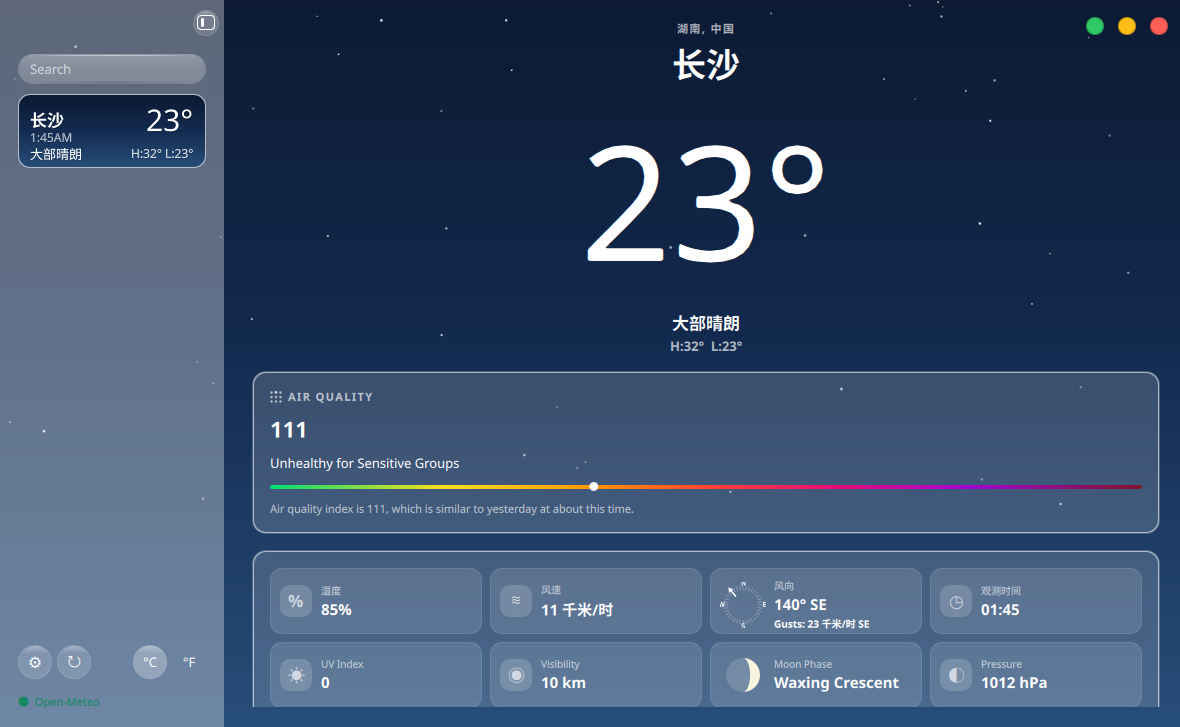
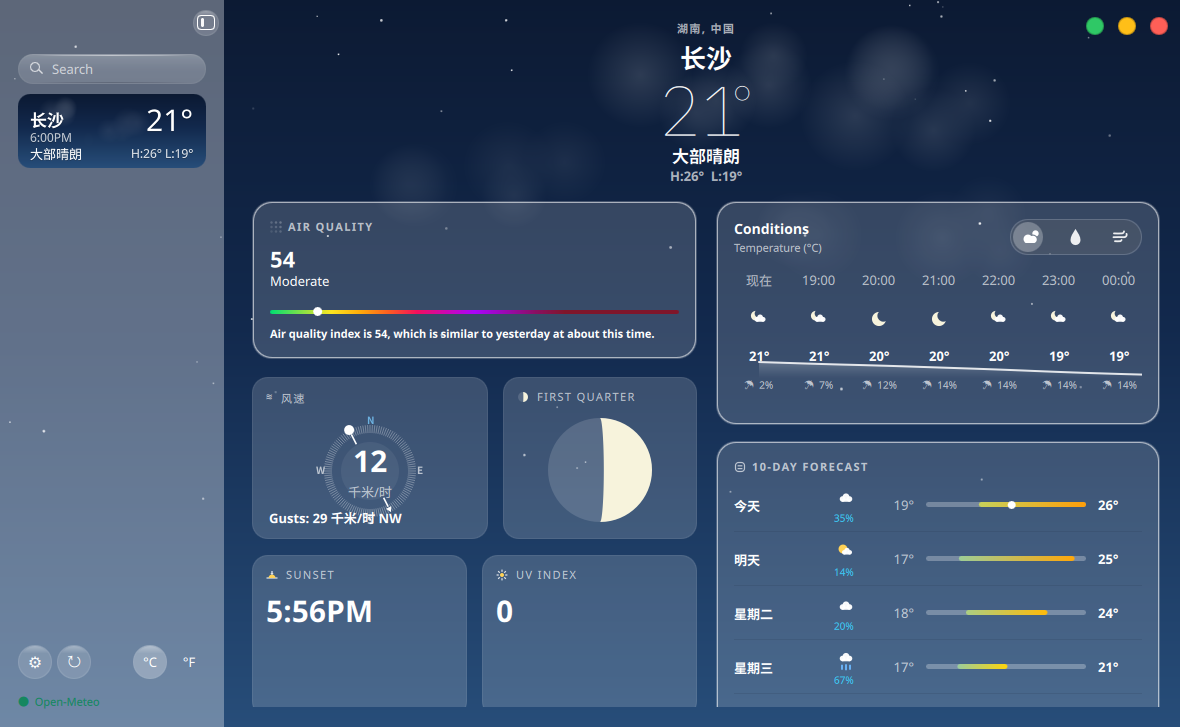
docs: round 43 进度与截图

diff --git a/docs/ui-weather/LEDGER.md b/docs/ui-weather/LEDGER.md
@@ -4,10 +4,14 @@
 参考实测色（814×498 主图采样）：天空 `#2961a7→#1469bc→#538ec9`（上→下，含云照片）；Conditions 卡 `#0057b2`；hero 文本 `#ffffff`；10天条渐变 青→黄→橙。
 
 ## 已改
+- **降水段（segment 1）列宽临界巡检收口（本轮=纯验证轮，净零代码改动，外推待确认"降水段 ☂ 30% 溢出"与风段轮残差 b 收口）**：TEMP 探针（`hourlySegmented` `Component.onCompleted: segment = 1`，取证后已删、git diff 净零）实拍取证。**结论：预测的 "☂ 30%"（~48px）溢出形态实际不存在**——降水段大值 Label（Main.qml:2926-2935）本就渲染纯百分数（"☂" 只出现在 segment 0 的底部 ☂ 行，segment 1 下 visible:false），LEDGER 旧预测按 "☂ 30%" 复合串估宽 48px 系口径错误。
+  **实测**（本轮二进制截图 tmp/shots/precipseg-probe-1792319277.png 过体检闸 ✅ 1180×727，dev env + KOS_SCREENSHOT_DELAY_MS=2500）：7 列 "2%/7%/12%/14%/14%/14%/14%" 全部居中于各自 50px 列（value 行 y345-375 与温度段同位），最宽墨 "12%/14%" **~20px**（50px 列内余量 ~30px，最坏 "100%" 加一位数字 ~+8px 仍充足）；列中心 757/817/878.5/938.5/998.5/1058.5/1118.5 = **60px 节奏精确**与温度段一致；☂ 行 segment 1 正确隐藏、无空带占位副作用（temperature/precip 两 Label 同槽互换、列高不变）；末列墨止 x1128 距卡右缘 x1158 余 30px 无裁切。目视 /tmp/z-precipseg.png 3x：七列齐整、无相撞无裁切。
+  **回归**（删探针重编译后默认段终态 tmp/shots/precipseg-final-1792319441.png 过体检闸 ✅ vs 改前 patrol windseg-final-1792319072，2px 步进 diff>24）：变化仅 12 稀疏采样散布 (44,6)-(1032,492)（星空闪烁/时钟已知噪声族）、整窗 MAE **0.003**——默认段零结构位移。qmllint 未跑（净零 diff 轮无义务）。测试 Qt 6/6 绿（env -u KOS_DATA_SOCKET）、go test ok。本轮无动效改动，无帧差义务。
+  **残差**：a) 三段切换视图（降水/风段）形态本系无参考外推，真实鼠标点击切换的观感仍待真机复核（既有外推条目不变）；b) "100%" 三位数场景本轮数据未出现（实测最大 "14%"），按墨宽外推余量充足。
 - **逐小时风段列溢出修复：数字/单位分两行（本轮，前端，零 Go/C++/shared/翻译改动，外推待确认"风段溢出"收口）**：外推待确认条目预测"风段 '16 千米/时'（~70px）会超出 50px 列宽与邻列相碰"从未实拍。TEMP 探针（`hourlySegmented` `Component.onCompleted: segment = 2`，取证后已删、git diff 净零 probe）实拍取证（tmp/shots/windseg-probe-1792318936.png 过体检闸 ✅ 1180×727）：风段各列 "12 千米/时" 连成一片、列间零间距、末列 "1 千米/" 被卡右缘裁切——预测证实。修复：`apps/weather/qml/Main.qml:2939-2969` 风速单行 Label（原 text `Math.round(windSpeed) + " " + root.speedUnit`）改为两行 ColumnLayout（数字行 DemiBold/skyText 居中 + 单位行 10px/skyTextMuted 居中、spacing 1，Accessible.name 移外层）；单位行占用 segment 2 下 ☂ 占位行空出的位置、净行高不变（不触发列重排）。ref 无风段形态（ref-main 仅温度段选中），两行结构系外推（Apple hourly wind 惯例数字大/单位小），记外推待确认。
   **实测**（本轮二进制截图 tmp/shots/windseg-fixed-1792319027.png 过体检闸 ✅ 1180×727，dev env + KOS_SCREENSHOT_DELAY_MS=2500）：7 列分明——单位墨宽 31-32px（列内余 ~18px）、邻列单位墨间隙 **29px**、列中心 758.5/818.5/878.5/…（**60px 精确**与温度段列中心一致）、数字行 "12" 墨中心 759.5 与单位行同列居中；目视 /tmp/z-windseg-fixed.png：数字/单位两行齐整、无相撞无裁切。
   **回归**（删探针重编译后默认段终态 tmp/shots/windseg-final-1792319072.png 过体检闸 ✅ vs 改前 patrol-1792318806，2px 步进 diff>24）：变化仅 33 稀疏采样散布 (44,4)-(1110,480)（星空闪烁/时钟已知噪声族）、整窗 MAE **0.004**——默认温度段零结构位移（改动只在 segment 2 分支）。qmllint 0 error（21 warning = 基线）。测试 Qt 6/6 绿（env -u KOS_DATA_SOCKET）、go test ok。本轮无动效改动，无帧差义务。
-  **残差（记入外推待确认）**：a) 两行结构系无参考外推；b) 降水段 "☂  30%"（~48px）50px 列内临界仍未实拍（同族，下轮巡检可顺带）；c) 单位行 10px 与 ☂ 行 10px 同族字号，中文 "千米/时" 10px 可读性系外推。
+  **残差（记入外推待确认）**：a) 两行结构系无参考外推；b) ~~降水段 "☂  30%"（~48px）50px 列内临界仍未实拍~~（**已收口**，见已改首条"降水段列宽临界巡检收口"）；c) 单位行 10px 与 ☂ 行 10px 同族字号，中文 "千米/时" 10px 可读性系外推。
 - **10 天卡头部→首行间距 −4px（本轮，前端，零 Go/C++/shared 改动，仍差 11 残差 b 收口）**：仍差 11 记载"头部→Today +4px"。本轮同口径复测（字体 1:1 依据：双方头部 caps 墨高均 8px，ipad 参考与截图同尺）：ref-ipad-small（1024×702）10 天卡（x264-546）头部墨底 y328 → Today 墨顶 y357 = **29px ink gap**；我方 patrol-1792318394（过体检闸 ✅）头部墨底 y471 → 今天墨顶 y505 = **33px**，+4px 残差确证。`apps/weather/qml/Main.qml:3012` dailyCard 头部 RowLayout `Layout.bottomMargin: 8→4`（注释 :3006 标明两侧实测依据）；spacing 6/fillWidth/visible/Canvas/Label/行 delegate/hover/渐变条零改动。
   **实测**（本轮二进制截图 tmp/shots/hdrgap-1792318597.png 过体检闸 ✅ 1180×727，dev env + KOS_SCREENSHOT_DELAY_MS=2500）：今天墨顶 505→**501 精确位移 −4px**，ink gap 33→**30px**（目标 29，Δ1px 系 CJK 字形 AA 读数）；头部带 y462-471 自身零位移；目视 /tmp/z-hdrgap.png：头部与今天行间距收紧、无裁切无重叠。
   **回归**（vs 改前 patrol-1792318394，2px 步进 diff>24）：变化 2097 采样**全部**落 10 天卡内 (717,441)-(1158,727)（行块整体 −4px 平移本体），卡外仅 9 稀疏采样（星空/时钟已知时变噪声）。qmllint 0 error（21 warning = 基线）。测试 Qt 6/6 绿、go test ok。本轮无动效改动，无帧差义务。
@@ -346,7 +350,7 @@
 - **风卡指针两段式的半径取值外推**：ref-main WIND 卡指针"中心留空+来向侧短尾针"的形态已实证（见已改首条），但 814 降采样下尾针/箭头段的精确起止半径不可采样（白针与刻度环 r38-44、字母 r50 像素混叠）——我方取"主段 r30-40+尾针 r30-38"系按"单位文字竖向半径 ~27+3px 余量"与"止于刻度环内缘"外推；ref 尾针是否带尖端/是否更长（近触 N 字母）不可辨。斜 45° 风向下针 r30 端点 (±21,∓21) 与单位文字 bbox（±27, +13..+24）在角域仍可能擦边（墨迹级，未实拍斜向帧，真实风向随机）。
 - ~~**分段胶囊灰填充的夜间观感未实拍**~~（**已收口**，见已改"分段胶囊灰填充夜态实拍收口"——夜态实拍 ΔR+6/G+3/B−2 近中性证实预测；可见性由 border/选中盘/glyph 三重支撑、目视无硬边无脏感，残留仅"填充可辨度较日间降 ~3×"的观感级差异，参考图无夜景无判据，不另立轮）。
 - **☂% 0% 隐文字的阈值与全干空带**：a) 阈值取 ">0"——ref 只能证明 0% 不显示（ref Conditions 卡无 ☂ 行、10 天仅 Fri 50% 显示），0<p<某阈值的中间概率是否显示不可采样（10 天行同阈值先例，Apple 真实阈值可能更高）；b) 全部小时都 0% 时（如 ref 场景）☂ 行退化为 ~13px 空带、卡底比 ref 多一段空白——跨列收窄该行会触发 ColumnLayout 重排使温度行下坠（本轮最小 repro 实证），且 Apple 惯例是逐小时视图底部常备降水区，故保留占位；c) segment 1/2（降水/风段）下 ☂ Label 仍 visible:false，切段时的列内重排行为与改前一致未复核。
-- **逐小时列距 60px 下风段/降水段文字溢出**：~~风段~~（**已收口**，见已改首条"逐小时风段列溢出修复"——探针实拍证实溢出、数字/单位分两行修复、7 列 60px 齐整）；温度段实拍 7 列无溢出；**降水段 "☂  30%"（~48px）在 50px 列内临界仍未实拍**（同族下轮顺带）；两段视图形态本系无参考外推（见下"风段/降水段视图形态无参考"条），真实点击切换后的观感待真机复核。
+- **逐小时列距 60px 下风段/降水段文字溢出**：~~风段~~（**已收口**，见已改首条"逐小时风段列溢出修复"——探针实拍证实溢出、数字/单位分两行修复、7 列 60px 齐整）；温度段实拍 7 列无溢出；~~降水段 "☂  30%"（~48px）在 50px 列内临界仍未实拍~~（**已收口**，见已改首条"降水段列宽临界巡检收口"——探针实拍降水段大值本就是纯百分数、最宽墨 ~20px、60px 列距精确、无溢出无裁切，旧预测按复合串估宽系口径错误）；两段视图形态本系无参考外推（见下"风段/降水段视图形态无参考"条），真实点击切换后的观感待真机复核。
 - **SUNSET 大方卡底部内容无参考**：ref-main 的 SUNSET 卡被窗底裁切、只见头部+大号时间，Apple 原生卡下半（常见是日出/日落进度弧）不可见——本轮卡高 162 对齐 WIND/月相、底部留空带（~90px），未发明底部内容。若日后拿到完整参考卡需复核补形态（数据 `daily[0].sunrise` 已有，可支撑日出行/进度弧）。大号时间字号 30px 系与 WIND 速度数字同量级外推（ref 字形 14.4px@814 实测、墨高比自洽）；mini 日落 glyph 为旧 46px sunCanvas 的 12px 缩比手绘（Apple 原生 glyph 形态不可采样）。
 - **月相大卡无 Moonrise 底行**：ref 月相卡底部有 "Moonrise: 9:48PM" 行（ref-main y424-431 实测），但快照/Open-Meteo current 无月出月落字段，本轮按"参考图没有的数据不发明"未做——盘底→卡底留 17px 空带（即原底行位置）。若要补需后端本地天文计算（日出日落 Open-Meteo daily 已有，月出需自行算，工程量大）或另找数据源，待用户裁定优先级。月亮盘为程序化平涂相位（cream #f7f3dc + 白 0.14 暗面），非参考照片质感（陨石坑纹理）——既有外推延续。
 - **popup Gusts 副行观感未实拍 + UV/Visibility/moonPhase 无处安放**：shell 天气弹窗跑在 Quickshell Wayland 层（AnimatedPopupWindow），无法独立离屏截图——本轮按 shell 轮先例（WeatherService moonPhase 轮）以静态契约测试为证，Gusts 副行在真机弹窗中的观感（副行是否与 divider 贴得太近、"Gusts: 22 km/h" 本地化串宽度是否溢出列宽）待真机复核。**用户裁定 3 的"复用现有列"已尽力执行**，但 popup 仅 336px：UV Index（~50px 列）、Visibility（~55px 列）、Moon Phase（"Waxing Crescent" 长串 ~90px）三个已接字段没有语义匹配的既有列可复用、加列必挤掉状态文本——若用户要 popup 展示这三者需裁定：a) 加高/加宽 popup；b) 底行换两行布局（即"新增列"的变体，违裁定 3 原文）；c) 放弃。airQuality service 侧是原始对象（无显示串属性），popup 无 AQ 列可复用，同样待裁定。
